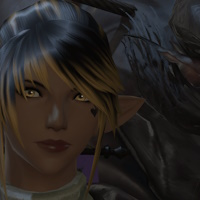
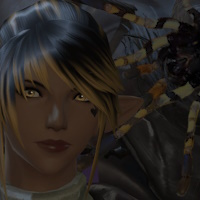
add
cat and spider

diff --git a/index.html b/index.html
@@ -693,6 +693,7 @@ var items = [
 	{id: 'mqfs_3', image: './mq/f/2s/3.jpg', race: 'miqote', sex: 'female'},
 	{id: 'mqfs_4', image: './mq/f/2s/4.jpg', race: 'miqote', sex: 'female'},
 	{id: 'mqfs_5', image: './mq/f/2s/5.jpg', race: 'miqote', sex: 'female'},
+	{id: 'mqfs_6', image: './mq/f/2s/6.jpg', race: 'miqote', sex: 'female'},
 	{id: 'mqfsbk_1', image: './mq/f/2s/bk/1.jpg', race: 'miqote', sex: 'female'},
 	{id: 'mqfsbk_2', image: './mq/f/2s/bk/2.jpg', race: 'miqote', sex: 'female'},
 	{id: 'mqfsbk_3', image: './mq/f/2s/bk/3.jpg', race: 'miqote', sex: 'female'},
@@ -742,6 +743,7 @@ var items = [
 	{id: 'mqfsyb_8', image: './mq/f/2s/yb/8.jpg', race: 'miqote', sex: 'female'},
 	{id: 'mqfsyb_9', image: './mq/f/2s/yb/9.jpg', race: 'miqote', sex: 'female'},
 	{id: 'mqfsyb_10', image: './mq/f/2s/yb/10.jpg', race: 'miqote', sex: 'female'},
+	{id: 'mqfsyb_11', image: './mq/f/2s/yb/11.jpg', race: 'miqote', sex: 'female'},
 	{id: 'mqm_1', image: './mq/m/1.jpg', race: 'miqote', sex: 'male'},
 	{id: 'mqm_2', image: './mq/m/2.jpg', race: 'miqote', sex: 'male'},
 	{id: 'mqm_3', image: './mq/m/3.jpg', race: 'miqote', sex: 'male'},
